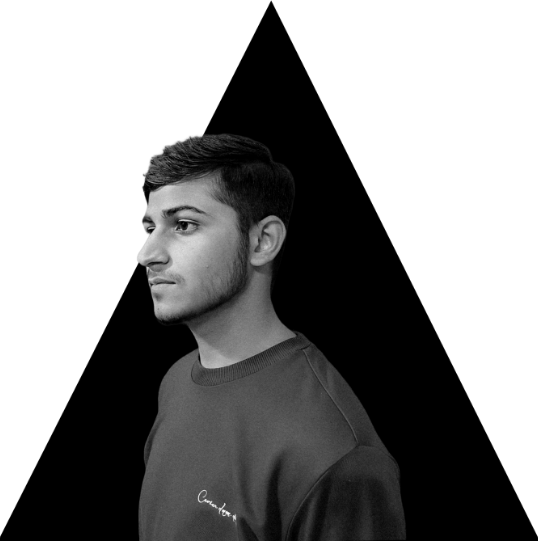
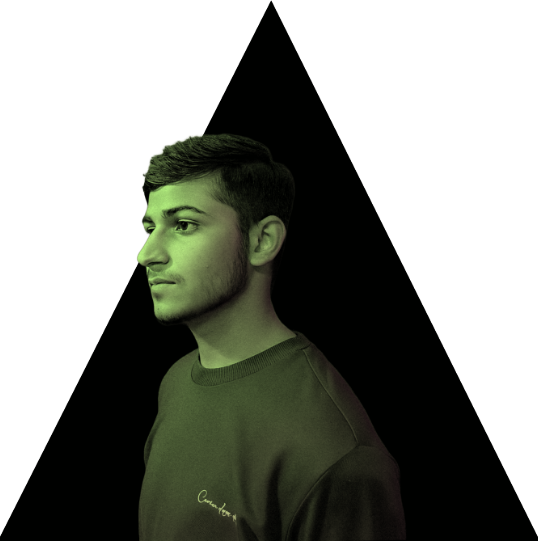
Updates

Changed region(s): [[0.2379, 0.2366, 0.7435, 1.0]]

diff --git a/pages/about.js b/pages/about.js
@@ -1,32 +1,37 @@
 function About() {
   return (
-    <div className="bg-gradient-to-br from-[#2e2e2e] via-black to-black text-white px-6">
+    <div className="bg-gradient-to-br from-[#2e2e2e] via-black to-black text-white">
       {/* main heading */}
-
-      <p className="leading-normal font-abc pt-[34%] sm:pt-[18%] lg:pt-[13%] pl-[6%] pr-[3%] text-4xl sm:text-5xl md:text-6xl lg:text-8xl text-left font-bold max-w-3xl lg:max-w-4xl">
-        Little about me...
-      </p>
+      <div className="px-6">
+        <a href="./">
+          <p className="text-light leading-normal font-abc pt-[34%] sm:pt-[18%] lg:pt-[13%] pl-[6%] pr-[3%] text-4xl sm:text-5xl md:text-6xl lg:text-8xl text-left font-bold max-w-3xl lg:max-w-4xl">
+            Little about me...
+          </p>
+        </a>
+      </div>
 
       <div className="px-3 pt-8 sm:pl-24 sm:pr-32 sm:pt-16">
         <p className="sm:text-lg py-8 text-base lg:text-lg">
           I am a software developer and currently a bachelor&apos;s student who
           have interests in the fields of data science, machine learning, and
-          web development. In 2019, I saw a advertisment on social media to
+          web development. In 2019, I saw an advertisement on social media to
           learn web development and get a free coding certificate from their my
           journey to code started. Over the time I get to know that design is
-          more complicated than coding it but the key to great design is
+          more complicated than coding it, but the key to great design is
           iterating and improving. The thing that excites me most as a
-          development is being able to design and create things that solve real
-          problems. Programming has taught me problem-solving skills not just on
-          screens but in other fields too.
+          Development is being able to design and create things that solve real
+          problems. Programming has taught me problem-solving skills, not just
+          on screens, but in other fields too.
           <br />
           <br />I like websites with a clean UI, responsive. I have worked on
-          different side project in differnet domains. Side projects have always
-          exiting me, as they are revolting,intersting and always takes a lot
-          more than expected but gives more than thought.
+          different side projects in different domains. Side projects have
+          always exiting me, as they are revolting, interesting, and always take
+          a lot of more than expected but gives more than thought.
         </p>
+      </div>
 
-        {/* ================================================================== */}
+      {/* ================================================================== */}
+      <div className="bg-dark text-black px-3 pt-8 sm:pl-24 sm:pr-32 sm:pt-16">
         <p className="text-2xl lg:text-3xl pb-4">Skills</p>
 
         <p className="px-5 py-3">Web development</p>
@@ -57,7 +62,9 @@ function About() {
           Wireframing
         </p>
 
-        <p className="px-5 pt-7 pb-3">Machine Learning && Data Science</p>
+        <p className="px-5 pt-7 pb-3">
+          Machine Learning && Data Science
+        </p>
         <p className="px-20">
           Numpy
           <br />
@@ -73,23 +80,25 @@ function About() {
           <br />
           Tensorflow
         </p>
+      </div>
 
-        {/* ================================================================== */}
-        <p className="text-2xl lg:text-3xl pt-10">Some thoughts</p>
+      {/* ================================================================== */}
+      <div className="px-3 pt-8 sm:pl-24 sm:pr-32 sm:pt-16">
+        <p className="text-light text-2xl lg:text-3xl pt-10">Some thoughts</p>
 
         <p className="py-8 pl-6 sm:text-lg text-base lg:text-lg">
           Artifical Intetlligence have always make me wonder how pieces of metal
-          thinks and getting close to the humanity. A journey from wondering to
+          thinks and is getting closer to humanity. A journey from wondering to
           creating have been and continuously will be. Universe is filled with
           data, data is constant, depends on the mind useful or useless
           difficult to understand, useful for right minds, but it is universal
-          and graphs needs data so, I data is needed to make beautiful graphs
+          and graphs need data, so data is needed to make beautiful graphs.
           tahta can be understandeable by anyone
           <br />
           <br />
-          Data is continuuos univerasal right for the right mind beine taught to
-          us since we ere born and will be their when we will die and data
-          science helps us to retreive information from the data
+          Data is continuous univerasal right for the right mind beine taught to
+          us since we were born and will be there when we die, and data Science
+          helps us retrieve information from the data.
         </p>
       </div>
     </div>

diff --git a/pages/contact.js b/pages/contact.js
@@ -2,14 +2,16 @@ function Contact() {
   return (
     <div className="bg-gradient-to-br from-[#2e2e2e] via-black to-black text-white">
       {/* main heading */}
-      <p className="leading-normal font-abc pt-[34%] sm:pt-[18%] lg:pt-[13%] pl-[6%] pr-[3%] text-4xl sm:text-5xl md:text-6xl lg:text-8xl text-left font-bold max-w-3xl lg:max-w-4xl">
-        Let&apos;s create one that stands
-      </p>
+      <a href="./">
+        <p className="text-light leading-normal font-abc pt-[34%] sm:pt-[18%] lg:pt-[13%] pl-[6%] pr-[3%] text-4xl sm:text-5xl md:text-6xl lg:text-8xl text-left font-bold max-w-3xl lg:max-w-4xl">
+          Let&apos;s create one that stands
+        </p>
+      </a>
       {/* contact me */}
       <div>
         <div className="px-[10%] pt-[10%] md:pt-[8%]">
           {/* contact me heading */}
-          <p className="pt-8 pb-3 md:pb-6 font-extrabold text-2xl lg:text-3xl">
+          <p className="text-light pt-8 pb-3 md:pb-6 font-extrabold text-2xl lg:text-3xl">
             Contact Me
           </p>
 
@@ -18,13 +20,15 @@ function Contact() {
             ups to get my knowledge and skills to the buisness world. I want to
             bring the ideas to reality
           </p>
-          <p className="text-lg pt-10 pb-5">Feel free to contact me</p>
+          <p className="text-light text-lg pt-10 pb-5">
+            Feel free to contact me
+          </p>
         </div>
         {/* contact me box */}
         <div className="flex flex-rows justify-center">
           <div
             className="text-black p-5 rounded-sm m-3 sm:p-10 sm:rounded-none
-                        transition-all border border-[#504f4f]"
+                        transition-all border border-white bg-dark"
           >
             <form
               action="https://formsubmit.co/malik16603@gmail.com"
@@ -33,7 +37,7 @@ function Contact() {
               <div className="flex flex-col sm:flex-row">
                 <div className="p-3 sm:p-5">
                   <label>
-                    <span className="after:content-[&apos;*&apos;] after:ml-0.5 after:text-red-500 block text-sm font-medium text-white">
+                    <span className="after:content-['*'] after:ml-0.5 after:text-red-500 block text-sm font-medium">
                       Full Name
                     </span>
                     <input
@@ -47,7 +51,7 @@ function Contact() {
                 </div>
                 <div className="p-3 sm:p-5">
                   <label>
-                    <span className="after:content-[&apos;*&apos;] after:ml-0.5 after:text-red-500 block text-sm font-medium text-white">
+                    <span className="after:content-['*'] after:ml-0.5 after:text-red-500 block text-sm font-medium ">
                       Email
                     </span>
                     <input
@@ -62,9 +66,7 @@ function Contact() {
               </div>
               <div className="p-3 sm:p-5">
                 <label>
-                  <span className="block text-sm font-medium text-white">
-                    Subject
-                  </span>
+                  <span className="block text-sm font-medium ">Subject</span>
                   <input
                     type="text"
                     name="subject"
@@ -75,7 +77,7 @@ function Contact() {
               </div>
               <div className="p-3 sm:p-5">
                 <label>
-                  <span className="after:content-[&apos;*&apos;] after:ml-0.5 after:text-red-500 block text-sm font-medium text-white">
+                  <span className="after:content-['*'] after:ml-0.5 after:text-red-500 block text-sm font-medium ">
                     Message
                   </span>
                   <textarea
@@ -90,7 +92,7 @@ function Contact() {
               <div className="flex justify-center p-3 sm:p-5">
                 <button
                   type="submit"
-                  className="bg-white text-black p-2 rounded"
+                  className="bg-white p-2 rounded"
                 >
                   Submit
                 </button>

diff --git a/components/main.js b/components/main.js
@@ -15,13 +15,13 @@ const Main = ({ className }) => {
       {/* ========================= main ======================= */}
       <div className="flex flex-row h-100v">
         {/* ========================= Left ======================== */}
-        <div className="w-full sm:w-min z-40 flex flex-row justify-center items-end sm:flex-col">
+        <div className="w-full sm:w-min z-40 flex flex-row justify-center items-end sm:flex-col text-light">
           <div className="p-3">
             <a href="#">
               <FontAwesomeIcon
                 style={{ fontSize: "24px" }}
                 icon={faGithub}
-                className="opacity-90 transition-all hover:scale-110 hover:hover:text-black sm:hover:text-[#837A75] hover:opacity-100 duration-75"
+                className="opacity-90 transition-all hover:scale-110 hover:text-white hover:opacity-100 duration-75"
               />
             </a>
           </div>
@@ -31,7 +31,7 @@ const Main = ({ className }) => {
               <FontAwesomeIcon
                 style={{ fontSize: "23px" }}
                 icon={faTwitter}
-                className="opacity-90 transition-all hover:scale-110 hover:hover:text-black sm:hover:text-[#837A75] hover:opacity-100 duration-75"
+                className="opacity-90 transition-all hover:scale-110 hover:text-white hover:opacity-100 duration-75"
               />
             </a>
           </div>
@@ -40,7 +40,7 @@ const Main = ({ className }) => {
               <FontAwesomeIcon
                 style={{ fontSize: "20px" }}
                 icon={faMedium}
-                className="opacity-90 transition-all hover:scale-110 hover:text-black hover:opacity-100 duration-75"
+                className="opacity-90 transition-all hover:scale-110 hover:text-white hover:opacity-100 duration-75"
               />
             </a>
           </div>
@@ -49,7 +49,7 @@ const Main = ({ className }) => {
               <FontAwesomeIcon
                 style={{ fontSize: "26px" }}
                 icon={faInstagram}
-                className="opacity-90 transition-all hover:scale-110 hover:text-black hover:opacity-100 duration-75"
+                className="opacity-90 transition-all hover:scale-110 hover:text-white hover:opacity-100 duration-75"
               />
             </a>
           </div>
@@ -57,20 +57,26 @@ const Main = ({ className }) => {
       </div>
 
       {/* color block */}
-      <div className="absolute z-0 w-screen h-[50%] bg-[rgb(131,122,117)] top-[50%]"></div>
+      <div className="absolute z-0 w-screen h-[50%] bg-dark top-[50%]"></div>
       {/* name */}
-      <div className="absolute top-[35%] sm:top-[45%] flex flex-col z-20 justify-center left-[10%] sm:left-[15%]">
-        <p className="text-2xl sm:text-3xl md:text-6xl lg:text-7xl font-bold font-abc text-[#ffffff] ">
+      <div className="absolute top-[32%] sm:top-[42%] flex flex-col z-20 justify-center left-[20%] sm:left-[15%]">
+        <p className="text-2xl sm:text-3xl md:text-6xl lg:text-7xl font-bold font-abc text-light ">
           Anmol Malik
         </p>
-        <p className="z-10 text-white text-2xl font-abc">
-          development is my sixth sense
+        <p className="z-10 mx-3 text-base sm:text-xl font-abc text-light">
+          Developer ~ Designer
         </p>
       </div>
 
       {/* image */}
-      <div className="absolute top-[45%] left-[35%] sm:top-[10%] right-0 sm:right-1 md:m-4 ">
-        <Image src={portrait} className="z-10" weight={498} height={505} alt="" />
+      <div className="absolute top-[40%] left-[35%] sm:top-[10%] right-0 sm:right-1 md:m-4 ">
+        <Image
+          src={portrait}
+          className="z-10"
+          weight={498}
+          height={505}
+          alt=""
+        />
       </div>
     </div>
   );

diff --git a/pages/projects.js b/pages/projects.js
@@ -4,11 +4,14 @@ import { Transition } from "@headlessui/react";
 
 function Projects() {
   return (
-    <div className="bg-gradient-to-br from-[#2e2e2e] via-black to-black text-white">
-      <div className="flex justify-center">
+    <div className="bg-gradient-to-br from-[#2e2e2e] via-black to-black text-white ">
+      <div className="flex justify-center text-light">
+        <a href="./">
+
         <p className="leading-normal font-abc pt-16 text-4xl sm:text-5xl md:text-6xl lg:text-8xl text-left font-bold max-w-3xl lg:max-w-4xl">
           Projects
         </p>
+        </a>
       </div>
 
       <div className="grid grid-cols-1 sm:grid-cols-2 lg:grid-cols-3 xl:grid-cols-4 gap-12 w-full p-[3.5rem] ">
@@ -25,7 +28,8 @@ function Projects() {
           </h3>
           <h4 className="text-base py-2 sm:text-lg">Web Development</h4>
           <p className="text-black text-base h-full py-4 opacity-0 -translate-y-4 transition ease-out duration-500 group-hover:translate-y-1 group-hover:opacity-100">
-            This is a React app that calculates weight on other planets.
+            This is a React webapp that uses react states to calculate weight on
+            other planets.
           </p>
           <span className="flex flex-row pt-3">
             <p className="text-base sm:text-lg pt-1">View Information</p>
@@ -94,7 +98,8 @@ function Projects() {
           </h3>
           <h4 className="text-base py-2 sm:text-lg">Python GUI</h4>
           <p className="text-black text-base h-full py-4 opacity-0 -translate-y-4 transition ease-out duration-500 group-hover:translate-y-1 group-hover:opacity-100">
-            A openCV GUI app made in tkinter.
+            A Tkinter-based openCV GUI app that can perform face recognition and
+            detection.
           </p>
           <span className="flex flex-row pt-3">
             <p className="text-base sm:text-lg pt-1">View Information</p>
@@ -128,7 +133,8 @@ function Projects() {
           </h3>
           <h4 className="text-base py-2 sm:text-lg">Data Science</h4>
           <p className="text-black text-base h-full py-4 opacity-0 -translate-y-4 transition ease-out duration-500 group-hover:translate-y-1 group-hover:opacity-100">
-            A data science project
+            A data science project made with Plotly that visualises different
+            data from jobs (data from Kaggle)
           </p>
           <span className="flex flex-row pt-3">
             <p className="text-base sm:text-lg pt-1">View Information</p>
@@ -163,7 +169,8 @@ function Projects() {
           </h3>
           <h4 className="text-base py-2 sm:text-lg">Machine learning</h4>
           <p className="text-black text-base h-full py-4 opacity-0 -translate-y-4 transition ease-out duration-500 group-hover:translate-y-1 group-hover:opacity-100">
-            Machine learning
+            Machine learning neural network that can predict sign language (in
+            beta stage)
           </p>
           <span className="flex flex-row pt-3">
             <p className="text-base sm:text-lg pt-1">View Information</p>
@@ -198,7 +205,8 @@ function Projects() {
           </h3>
           <h4 className="text-base py-2 sm:text-lg">Data science</h4>
           <p className="text-black text-base h-full py-4 opacity-0 -translate-y-4 transition ease-out duration-500 group-hover:translate-y-1 group-hover:opacity-100">
-            Machine learning
+            A data science and machine learning project that visualises previous
+            emission data and predicts an increase in data.
           </p>
           <span className="flex flex-row pt-3">
             <p className="text-base sm:text-lg pt-1">View Information</p>

diff --git a/components/navbar.js b/components/navbar.js
@@ -9,7 +9,7 @@ const Nav = ({ className }) => {
   const [isOpen, setIsOpen] = useState(false);
   return (
     <div className={className}>
-      <div className="text-xl font-semibold font-abc">
+      <div className="text-xl font-semibold font-abc text-light">
         <nav>
           <div className="mx-full px-4 pt-3 sm:px-6 lg:px-8">
             <div className="flex justify-between w-full">
@@ -20,9 +20,9 @@ const Nav = ({ className }) => {
                     <a
                       href="./about"
                       className="relative transition ease-out duration-100 w-min-content pb-1
-                  before:w-0 before:h-[3px] before:absolute before:bottom-0 before:right-0 before:bg-[#837A75] before:transition-all before:duration-100
-                  hover:before:w-full hover:before:left-0 hover:before:bg-[#837A75]
-                  hover:text-white"
+                  before:w-0 before:h-[3px] before:absolute before:bottom-0 before:right-0 before:bg-light before:transition-all before:duration-100
+                  hover:before:w-full hover:before:left-0 hover:before:bg-light
+                  hover:text-light"
                     >
                       About
                     </a>
@@ -32,9 +32,9 @@ const Nav = ({ className }) => {
                     <a
                       href="./projects"
                       className="relative transition ease-out duration-100 w-min-content pb-1
-                            before:w-0 before:h-[3px] before:absolute before:bottom-0 before:right-0 before:bg-[#837A75] before:transition-all before:duration-100
-                            hover:before:w-full hover:before:left-0 hover:before:bg-[#837A75]
-                            hover:text-white"
+                            before:w-0 before:h-[3px] before:absolute before:bottom-0 before:right-0 before:bg-light before:transition-all before:duration-100
+                            hover:before:w-full hover:before:left-0 hover:before:bg-light
+                            hover:text-light"
                     >
                       Projects
                     </a>
@@ -43,9 +43,9 @@ const Nav = ({ className }) => {
                     <a
                       href="./contact"
                       className="relative transition ease-out duration-100 w-min-content pb-1
-                            before:w-0 before:h-[3px] before:absolute before:bottom-0 before:right-0 before:bg-[#837A75] before:transition-all before:duration-100
-                            hover:before:w-full hover:before:left-0 hover:before:bg-[#837A75]
-                            hover:text-white"
+                            before:w-0 before:h-[3px] before:absolute before:bottom-0 before:right-0 before:bg-light before:transition-all before:duration-100
+                            hover:before:w-full hover:before:left-0 hover:before:bg-light
+                            hover:text-light"
                     >
                       Contact
                     </a>

diff --git a/tailwind.config.js b/tailwind.config.js
@@ -23,14 +23,8 @@ module.exports = {
     },
     extend: {
       colors: {
-        gg: "#282828",
-        main: "#DE0304",
-        bb: "#5B5561",
-        blue_b: "#240090",
-        blue_c: "#190061",
-        blue_d: "#0C0032",
-        main_dark: "#DE0304",
-        light_black: "#171717",
+        dark:"#758173",
+        light: "#b7e0b1",
       },
       boxShadow: {
         "3xl": "0 35px 60px -15px rgba(1, 1, 1, 1)",

diff --git a/pages/index.js b/pages/index.js
@@ -17,7 +17,7 @@ export default function Home() {
       </Head>
       {/* ========================== navigation bar ======================= */}
       <Main className="z-10 w-screen" />
-      <Nav className="absolute h-fit w-full top-[0%] z-20" />
+      <Nav className="absolute h-fit w-full top-[0%] z-50" />
       {/* ===================== SVG ===================== */}
     </div>
   );
